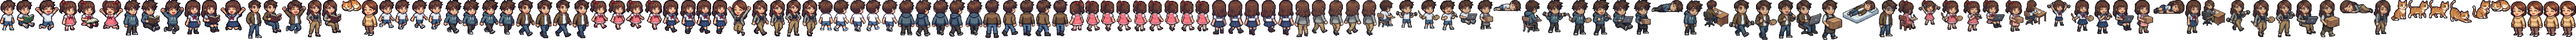
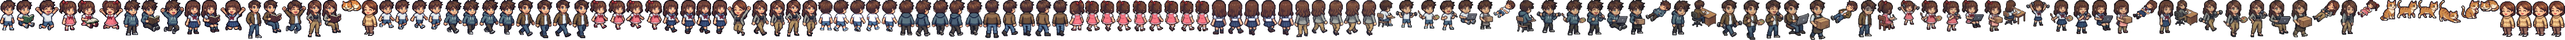
v0.5.16: 침대 각도로 누운 스프라이트 적용, 침대 회전 시 반전·높이 조정
Claude-Session: https://claude.ai/code/session_01VYXQzVYR4chXqJ2j5munDD

diff --git a/src/components/IsometricRoomCanvas.tsx b/src/components/IsometricRoomCanvas.tsx
@@ -3,6 +3,7 @@ import { FURNITURE_MAP } from '../data/furnitureData';
 import { canPlace, computeActiveCombos, footprint, growthStage } from '../engine/room';
 import { canvasSize, COMBO_COLORS, depthSorted, furnitureBounds, renderRoom, unproject, type RoomView } from '../render/isoRenderer';
 import { FURNITURE_BODY, pixelIconUrl } from '../render/sprites';
+import { furnitureFlipped, hasFurnitureSprite } from '../render/furnitureSprites';
 import { characterHeight, RES } from '../render/spriteCharacter';
 import { besideCells, CharacterSim, doorCell, type Step } from '../render/characterSim';
 import { CatSim } from '../render/catSim';
@@ -221,7 +222,10 @@ export function IsometricRoomCanvas({
             const fp = footprint(bed);
             const cx = fp.reduce((a, c) => a + c.x, 0) / fp.length + 0.5;
             const cy = fp.reduce((a, c) => a + c.y, 0) / fp.length + 0.5;
-            sim.actor.drawAt = { gx: cx, gy: cy, lift: (FURNITURE_BODY[bed.furnitureId]?.h ?? 6) + 2 };
+            // 누운 그림(침대 각도로 그려짐)의 발끝이 침대 칸 가운데보다 살짝 아래에 오도록
+            sim.actor.drawAt = { gx: cx, gy: cy, lift: hasFurnitureSprite(bed.furnitureId) ? -2 : (FURNITURE_BODY[bed.furnitureId]?.h ?? 6) - 2 };
+            // 누운 그림은 머리가 오른쪽 위(침대 머리판 쪽) → 침대가 좌우 반전되어 그려지면 같이 반전
+            sim.actor.facing = furnitureFlipped(bed) ? 'L' : 'R';
           }
           haloRef.current = HALO[w.outcome];
           setBubble(w.outcome === 'GREAT' ? '✨' : POSE_BUBBLE[pose] ?? ACT_BUBBLE[w.actionType]);

diff --git a/src/render/furnitureSprites.ts b/src/render/furnitureSprites.ts
@@ -116,3 +116,11 @@ export function furnitureSpriteUrl(id: string): string {
   urlCache.set(id, url);
   return url;
 }
+
+/** 손그림 가구가 좌우 반전되어 그려지는지 (회전에 따른 정면 방향 vs 원본 방향) */
+export function furnitureFlipped(p: Pick<PlacedFurniture, 'furnitureId' | 'rotation'>): boolean {
+  const f = FRAMES[p.furnitureId];
+  if (!f) return p.rotation === 90 || p.rotation === 270;
+  const want = p.rotation === 90 || p.rotation === 270 ? 'R' : 'L';
+  return want !== f.face;
+}

diff --git a/src/components/TitleScreen.tsx b/src/components/TitleScreen.tsx
@@ -59,7 +59,7 @@ export function TitleScreen({ onStart }: { onStart: () => void }) {
           <PixelButton color="bg-sky" onClick={() => setMode('book')}>
             👑 엔딩 도감 ({unlockedEndings.length}/{ENDINGS.length})
           </PixelButton>
-          <p className="mt-2 text-[10px] text-white/60">v0.5.15 · 캐릭터끼리 안 겹치기</p>
+          <p className="mt-2 text-[10px] text-white/60">v0.5.16 · 침대에 누운 모습</p>
         </div>
       )}
 

diff --git a/scripts/build-sprites.py b/scripts/build-sprites.py
@@ -400,6 +400,20 @@ for g, path in POSE_SHEETS.items():
             else:
                 sprites[name] = cut(img_p, named[name], blk)
 
+# 침대에 누운 그림 시트 (2행 × 3열): 위 = 아들, 아래 = 딸 / 왼쪽부터 유년·청소년·청년
+# 침대 각도(머리 오른쪽 위, 발 왼쪽 아래)로 그려져 있어 그대로 사용. 행동 시트의 잠자기 그림을 대체.
+# 크기: 그림 폭 = 서 있을 때 키의 70% (침대 폭과 비슷)
+SLEEP_SHEET = 'assets-src/sleep-sheet.png'
+img_s = np.asarray(Image.open(SLEEP_SHEET).convert('RGB')).astype(np.int32)
+sboxes = components((765 - img_s.sum(axis=2)) > 60, f=2, min_cells=40)
+assert len(sboxes) == 6, f'{SLEEP_SHEET}: expected 6, found {len(sboxes)}'
+sboxes.sort(key=lambda b: (int(((b[1] + b[3]) / 2) // (img_s.shape[0] / 2)), b[0]))
+for (g, st), b in zip([(g, st) for g in ('SON', 'DAUGHTER') for st in STAGES], sboxes):
+    target_w = sprites[f'{st}_{g}_stand'].shape[0] * 0.7
+    blk = (b[2] - b[0]) / target_w
+    blk *= cut(img_s, b, blk).shape[1] / target_w
+    sprites[f'{st}_{g}_sleep'] = defringe(cut(img_s, b, blk))
+
 # 반려묘 시트: [앉기, 걷기A, 걷기B, 기지개, 그루밍, 식빵 자세] — 모두 오른쪽을 봄 (왼쪽은 게임에서 좌우 반전)
 # 크기: 식빵 자세의 폭 = 기존 잠자는 고양이(CAT_sleep) 폭
 CAT_SHEET = 'assets-src/cat-sheet.png'

diff --git a/CHANGELOG.md b/CHANGELOG.md
@@ -1,5 +1,14 @@
 # Changelog
 
+## v0.5.16 — 침대에 누운 모습 (침대 각도)
+
+### 변경
+- `assets-src/sleep-sheet.png`: 침대 각도(머리 오른쪽 위, 발 왼쪽 아래)로 누운 아들·딸 3단계 6장
+  - 행동 시트의 수평으로 누운 잠자기 그림을 모두 대체 (의상이 틀려 빠져 있던 딸 유년기 잠자기도 생김)
+  - 크기: 그림 폭 = 서 있을 때 키의 70%, 흰 테두리 번짐 제거
+- 침대를 회전해 좌우 반전되면 누운 그림도 같이 반전 (머리가 항상 머리판 쪽)
+- 누운 높이 조정: 매트리스 위에 붙어 눕도록 (기존에는 살짝 떠 있었음)
+
 ## v0.5.15 — 아이·부모님·고양이가 서로 겹치지 않게
 
 ### 수정
